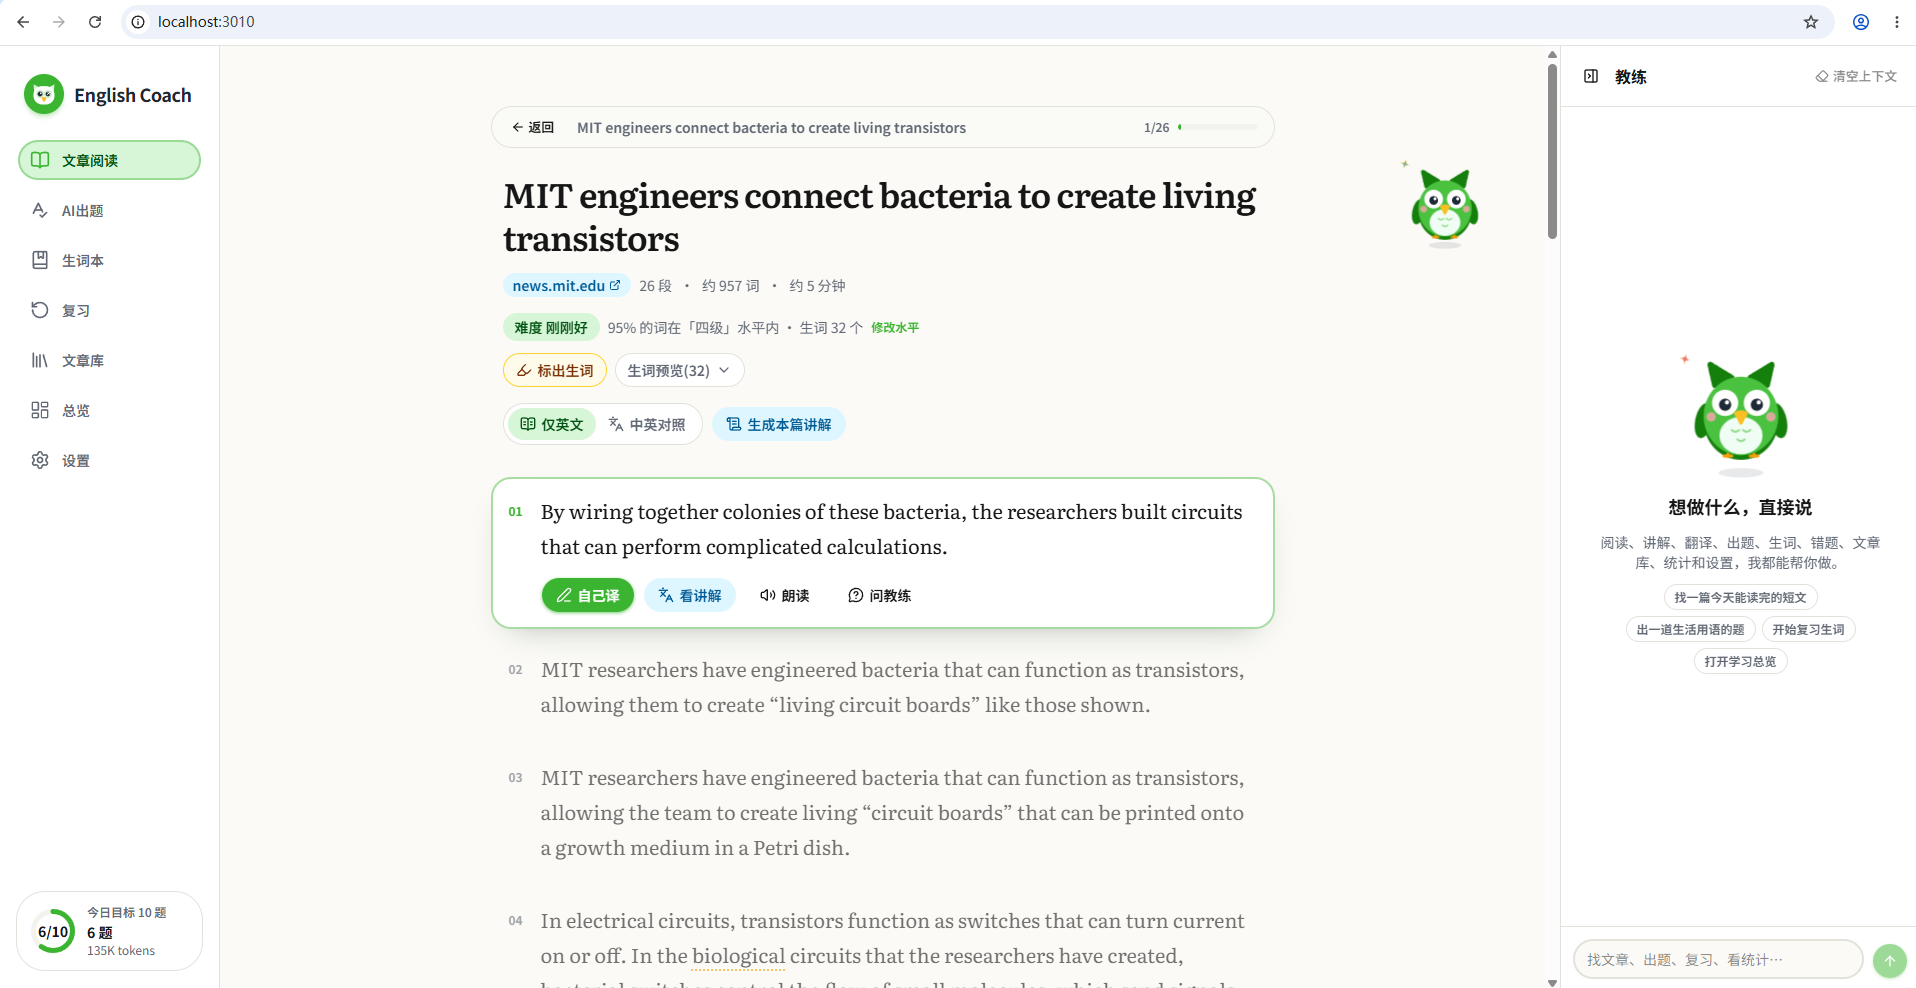
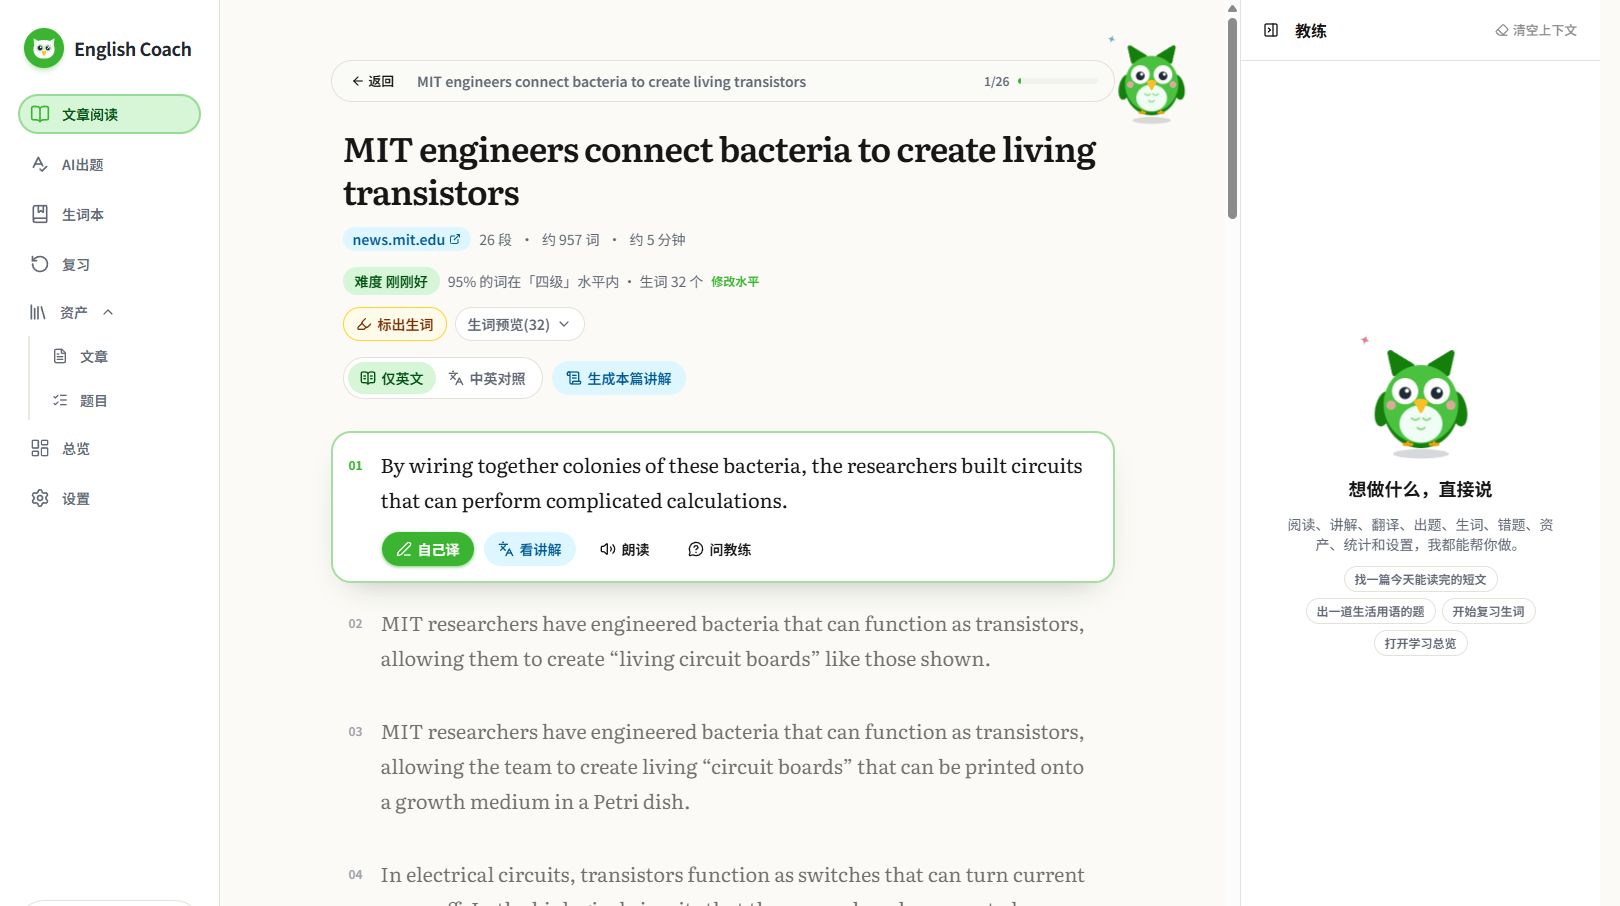
docs: refresh README screenshots for the assets menu
Recapture full three-column shots with 资产 sidebar, and harden opening a saved drill from the bank page.

diff --git a/src/components/DrillBankView.tsx b/src/components/DrillBankView.tsx
@@ -46,12 +46,14 @@ export function DrillBankView() {
   }, [pageCommand]);
 
   function openDrill(id: string) {
-    applyPatch({
-      route: "drill",
-      pageCommand: { id: `open-${id}`, route: "drill", drillId: id },
-      statusMessage: "已打开这道题",
-    });
+    // Route first so DrillView is mounted before the one-shot pageCommand arrives.
     setRoute("drill");
+    requestAnimationFrame(() => {
+      applyPatch({
+        pageCommand: { id: `open-${id}`, route: "drill", drillId: id },
+        statusMessage: "已打开这道题",
+      });
+    });
   }
 
   return (

diff --git a/src/components/AppShell.tsx b/src/components/AppShell.tsx
@@ -221,11 +221,13 @@ export function AppShell() {
       if (Object.keys(speech).length > 0) useSpeech.getState().set(speech);
     }
     const commandId = pageCommand.id;
-    queueMicrotask(() => {
+    // Give page views a turn to consume drillId / refresh before clearing.
+    const timer = window.setTimeout(() => {
       if (useWorkspace.getState().pageCommand?.id === commandId) {
         useWorkspace.setState({ pageCommand: null });
       }
-    });
+    }, 50);
+    return () => window.clearTimeout(timer);
   }, [pageCommand]);
 
   return (

diff --git a/Plan.md b/Plan.md
@@ -56,3 +56,4 @@
 - 2026-11-19：README 截图改为文章阅读、悬停查词、AI 出题、翻译闯关和学习总览
 - 2026-11-19：侧栏「文章库」改为「题库」，下分文章与题目；做过的题迁入题库并分页
 - 2026-11-19：侧栏「题库」改名为「资产」
+- 2026-11-19：按新侧栏（资产·文章/题目）重拍并替换 docs/images 截图
